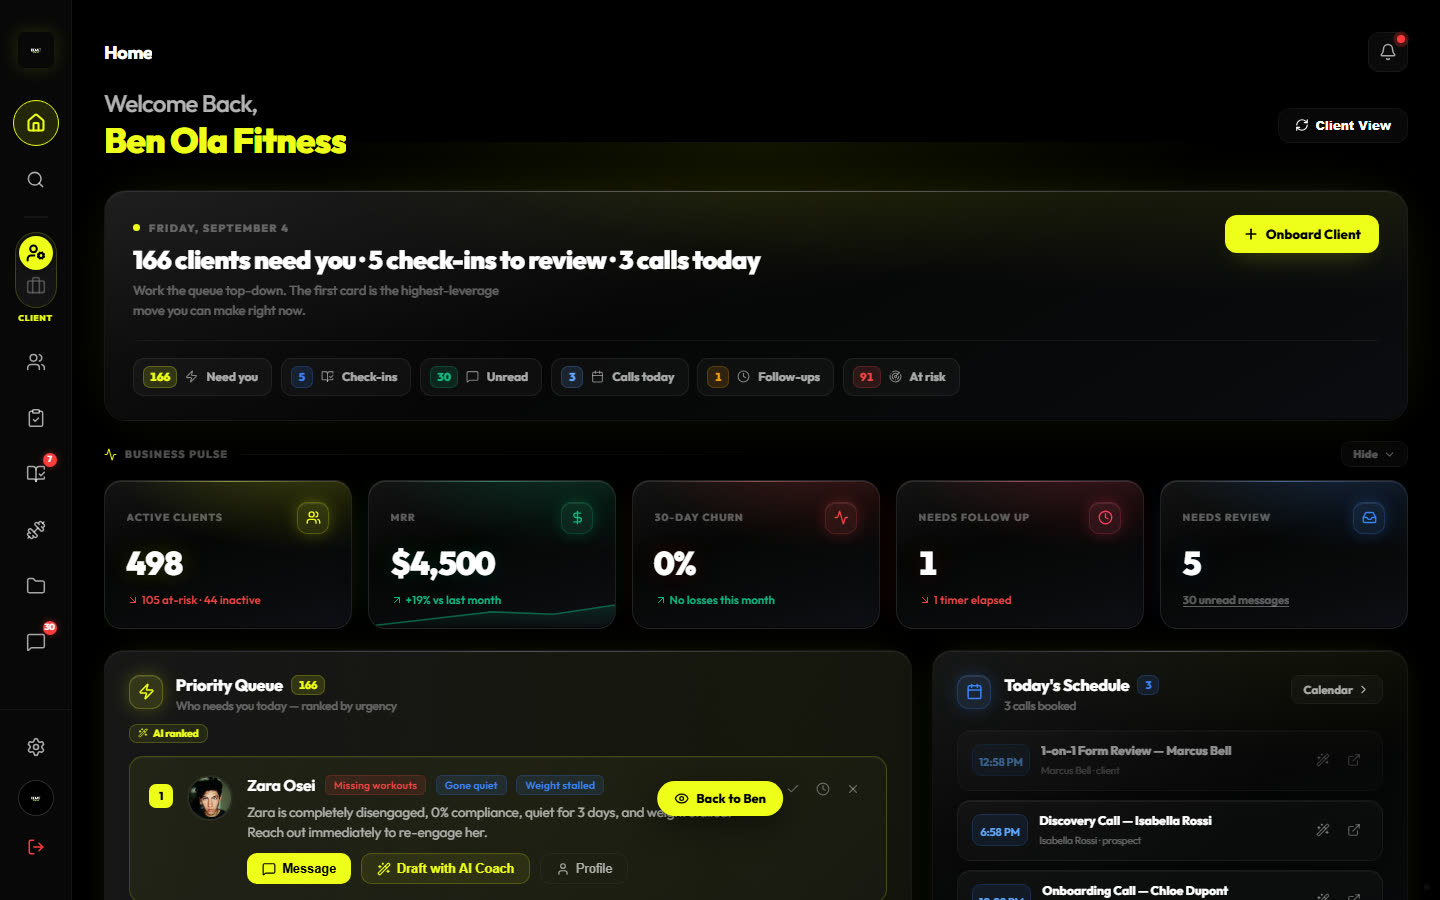
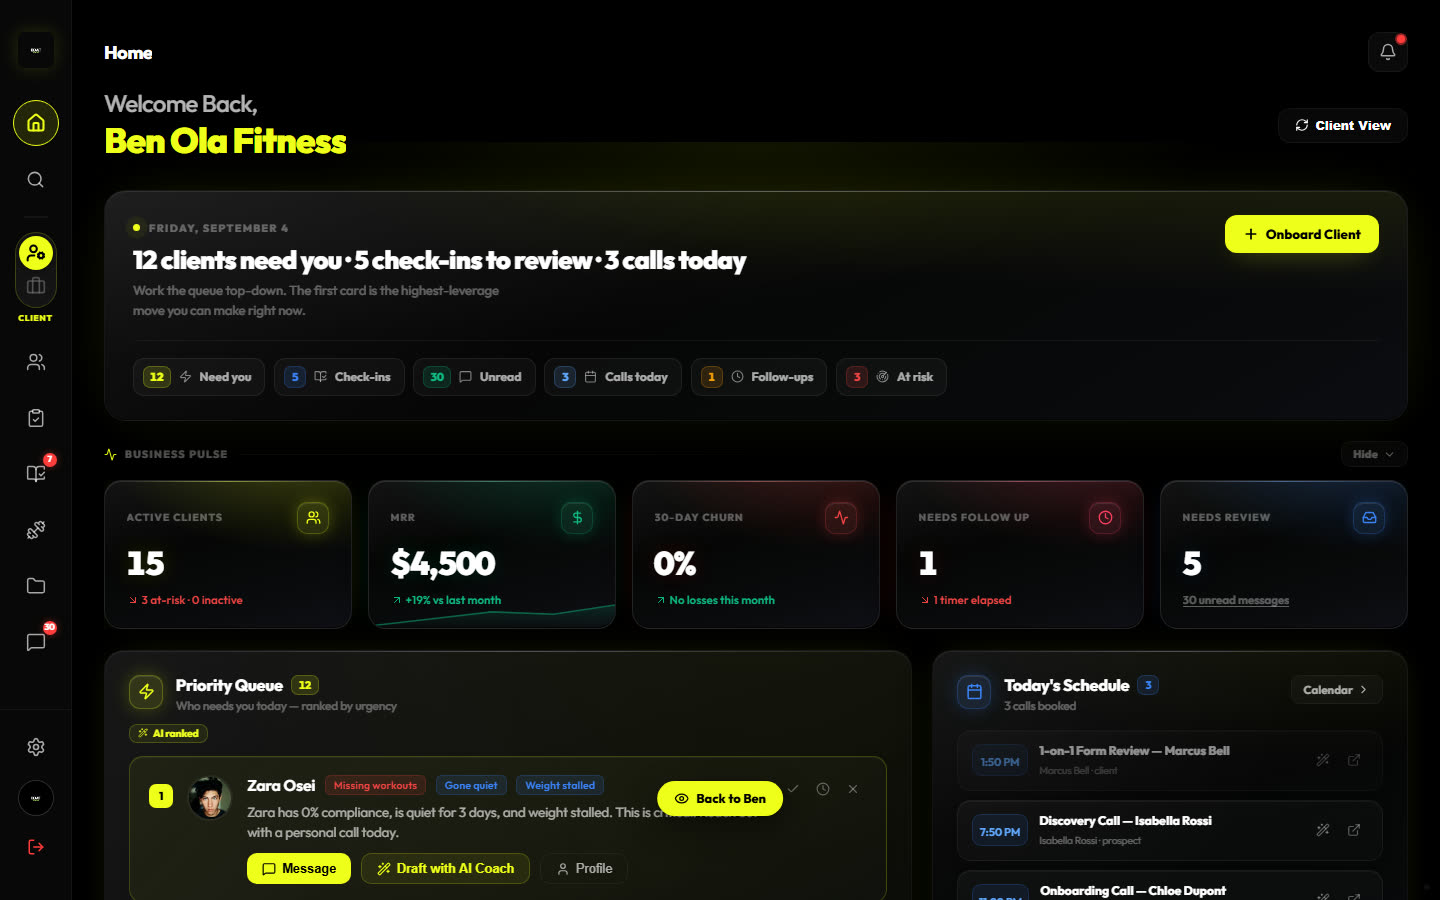
Run BOWT in the frame too, now that it will be framed
BOWT was the one card that could not be embedded: it answered
X-Frame-Options: SAMEORIGIN, which is a blank box in an iframe with
nothing in our console to say why. EliteFitnessApp/vercel.json in the
Main Fitness Dashboard repo now answers frame-ancestors naming this
site instead - stricter than SAMEORIGIN was for everyone except us -
so all six builds are the builds themselves now.

That header is the only reason BOWT is in a frame. If that project ever
drops it, drop `live` from the BOWT entry and the card goes back to a
poster and an open-in-a-new-tab link on its own.

Its poster is recut from the deploy that is live now, so the still the
frame loads over matches what loads into it.

diff --git a/client/src/components/site/Showcase.tsx b/client/src/components/site/Showcase.tsx
@@ -33,10 +33,11 @@ import { goTo } from "@/components/site/Nav";
  *
  *     curl -sI <url> | grep -i "x-frame-options\|content-security"
  *
- * Anything answering X-Frame-Options or frame-ancestors renders as a
- * blank box in the frame, with nothing in the page's own console to say
- * why. Those get the poster and the open-in-a-new-tab link instead,
- * which is what BOWT is doing here.
+ * Anything answering X-Frame-Options, or frame-ancestors that does not
+ * name this site, renders as a blank box in the frame with nothing in
+ * the page's own console to say why. Those get the poster and the
+ * open-in-a-new-tab link instead - which is also what every build gets
+ * on a phone, where nothing is framed.
  *
  * Nothing in here may be invented. Every line describes something that
  * is visible in the build it sits next to.
@@ -112,11 +113,14 @@ const BUILDS: Build[] = [
     role: "Online coach",
     chrome: "BOWT",
     glyph: "#D7F03A",
-    /* BOWT answers X-Frame-Options: SAMEORIGIN, so this one is a still
-       and a link rather than a frame. */
     blurb:
       "The client list ordered by who is closest to leaving. Every card carries the reason - quiet three days, workouts missed - and a message ready to send.",
     href: "https://bowt-preview.vercel.app/preview/coach?view=home",
+    /* BOWT used to answer X-Frame-Options: SAMEORIGIN and could not be
+       framed at all. It now answers frame-ancestors naming this site,
+       so it is the only build here whose own headers have to keep
+       naming us - if it stops, this goes back to a poster and a link. */
+    live: "https://bowt-preview.vercel.app/preview/coach?view=home",
     poster: "/work/live-bowt.jpg",
   },
   {

diff --git a/state.md b/state.md
@@ -102,11 +102,21 @@ a picture of it. Three things make that work:
 
     curl -sI <url> | grep -i "x-frame-options\|content-security"
 
-Anything answering `X-Frame-Options` or `frame-ancestors` renders as a blank
-box with nothing in our console to say why. BOWT
-(`bowt-preview.vercel.app`) answers `SAMEORIGIN`, which is why it is the one
-card that is a still and a link. One `headers` entry in that project's
-`vercel.json` would let it in.
+Anything answering `X-Frame-Options`, or a `frame-ancestors` that does not
+name this site, renders as a blank box with nothing in our console to say why.
+
+All six are framed. Five of them set no framing header at all. BOWT is the
+exception: it used to answer `X-Frame-Options: SAMEORIGIN` and could not be
+framed, so `EliteFitnessApp/vercel.json` in the Main Fitness Dashboard repo
+now answers
+
+    Content-Security-Policy: frame-ancestors 'self' https://hustlecorex.com
+      https://www.hustlecorex.com https://hustlecorex-main-website.vercel.app
+
+instead - which is stricter than `SAMEORIGIN` was for everyone except us.
+That header is the only reason BOWT is in a frame, so if that project ever
+drops it, drop `live` from the BOWT entry and it goes back to a poster and a
+link on its own.
 
 Posters live in `client/public/work/live-*.jpg`, cut to 1440x900 to match the
 frame exactly - so the swap from still to live build is invisible. They are
